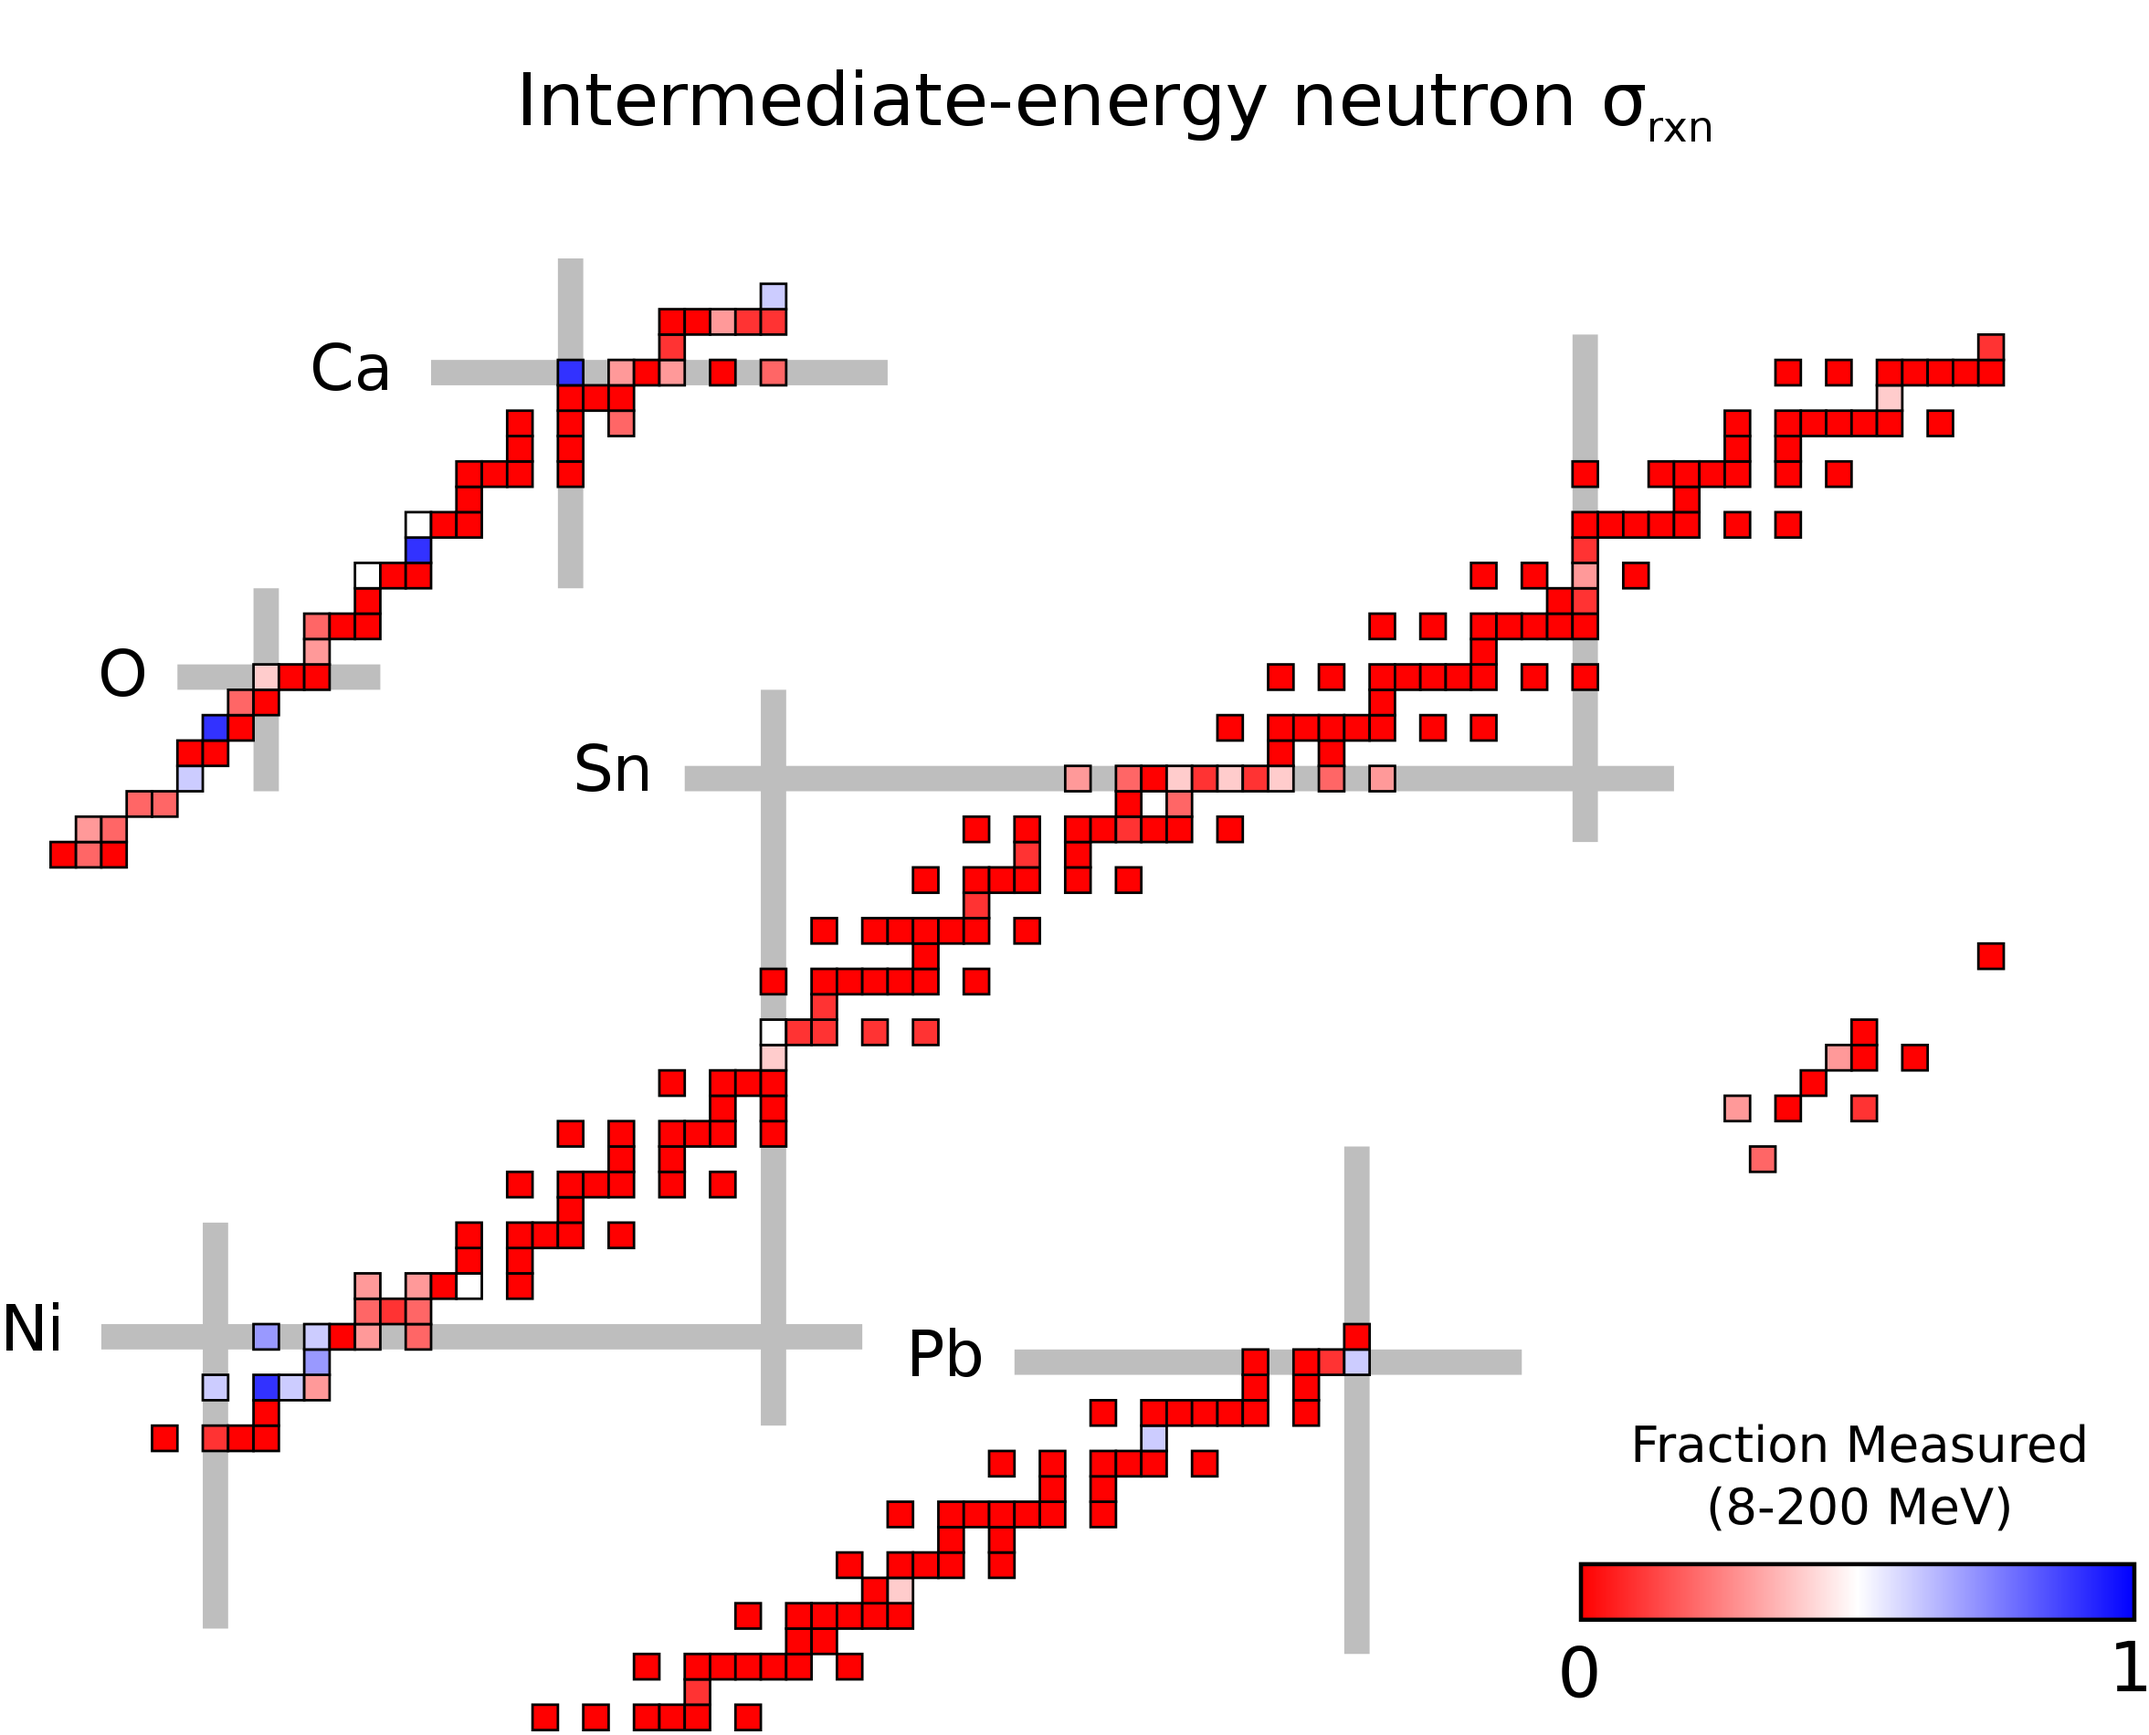
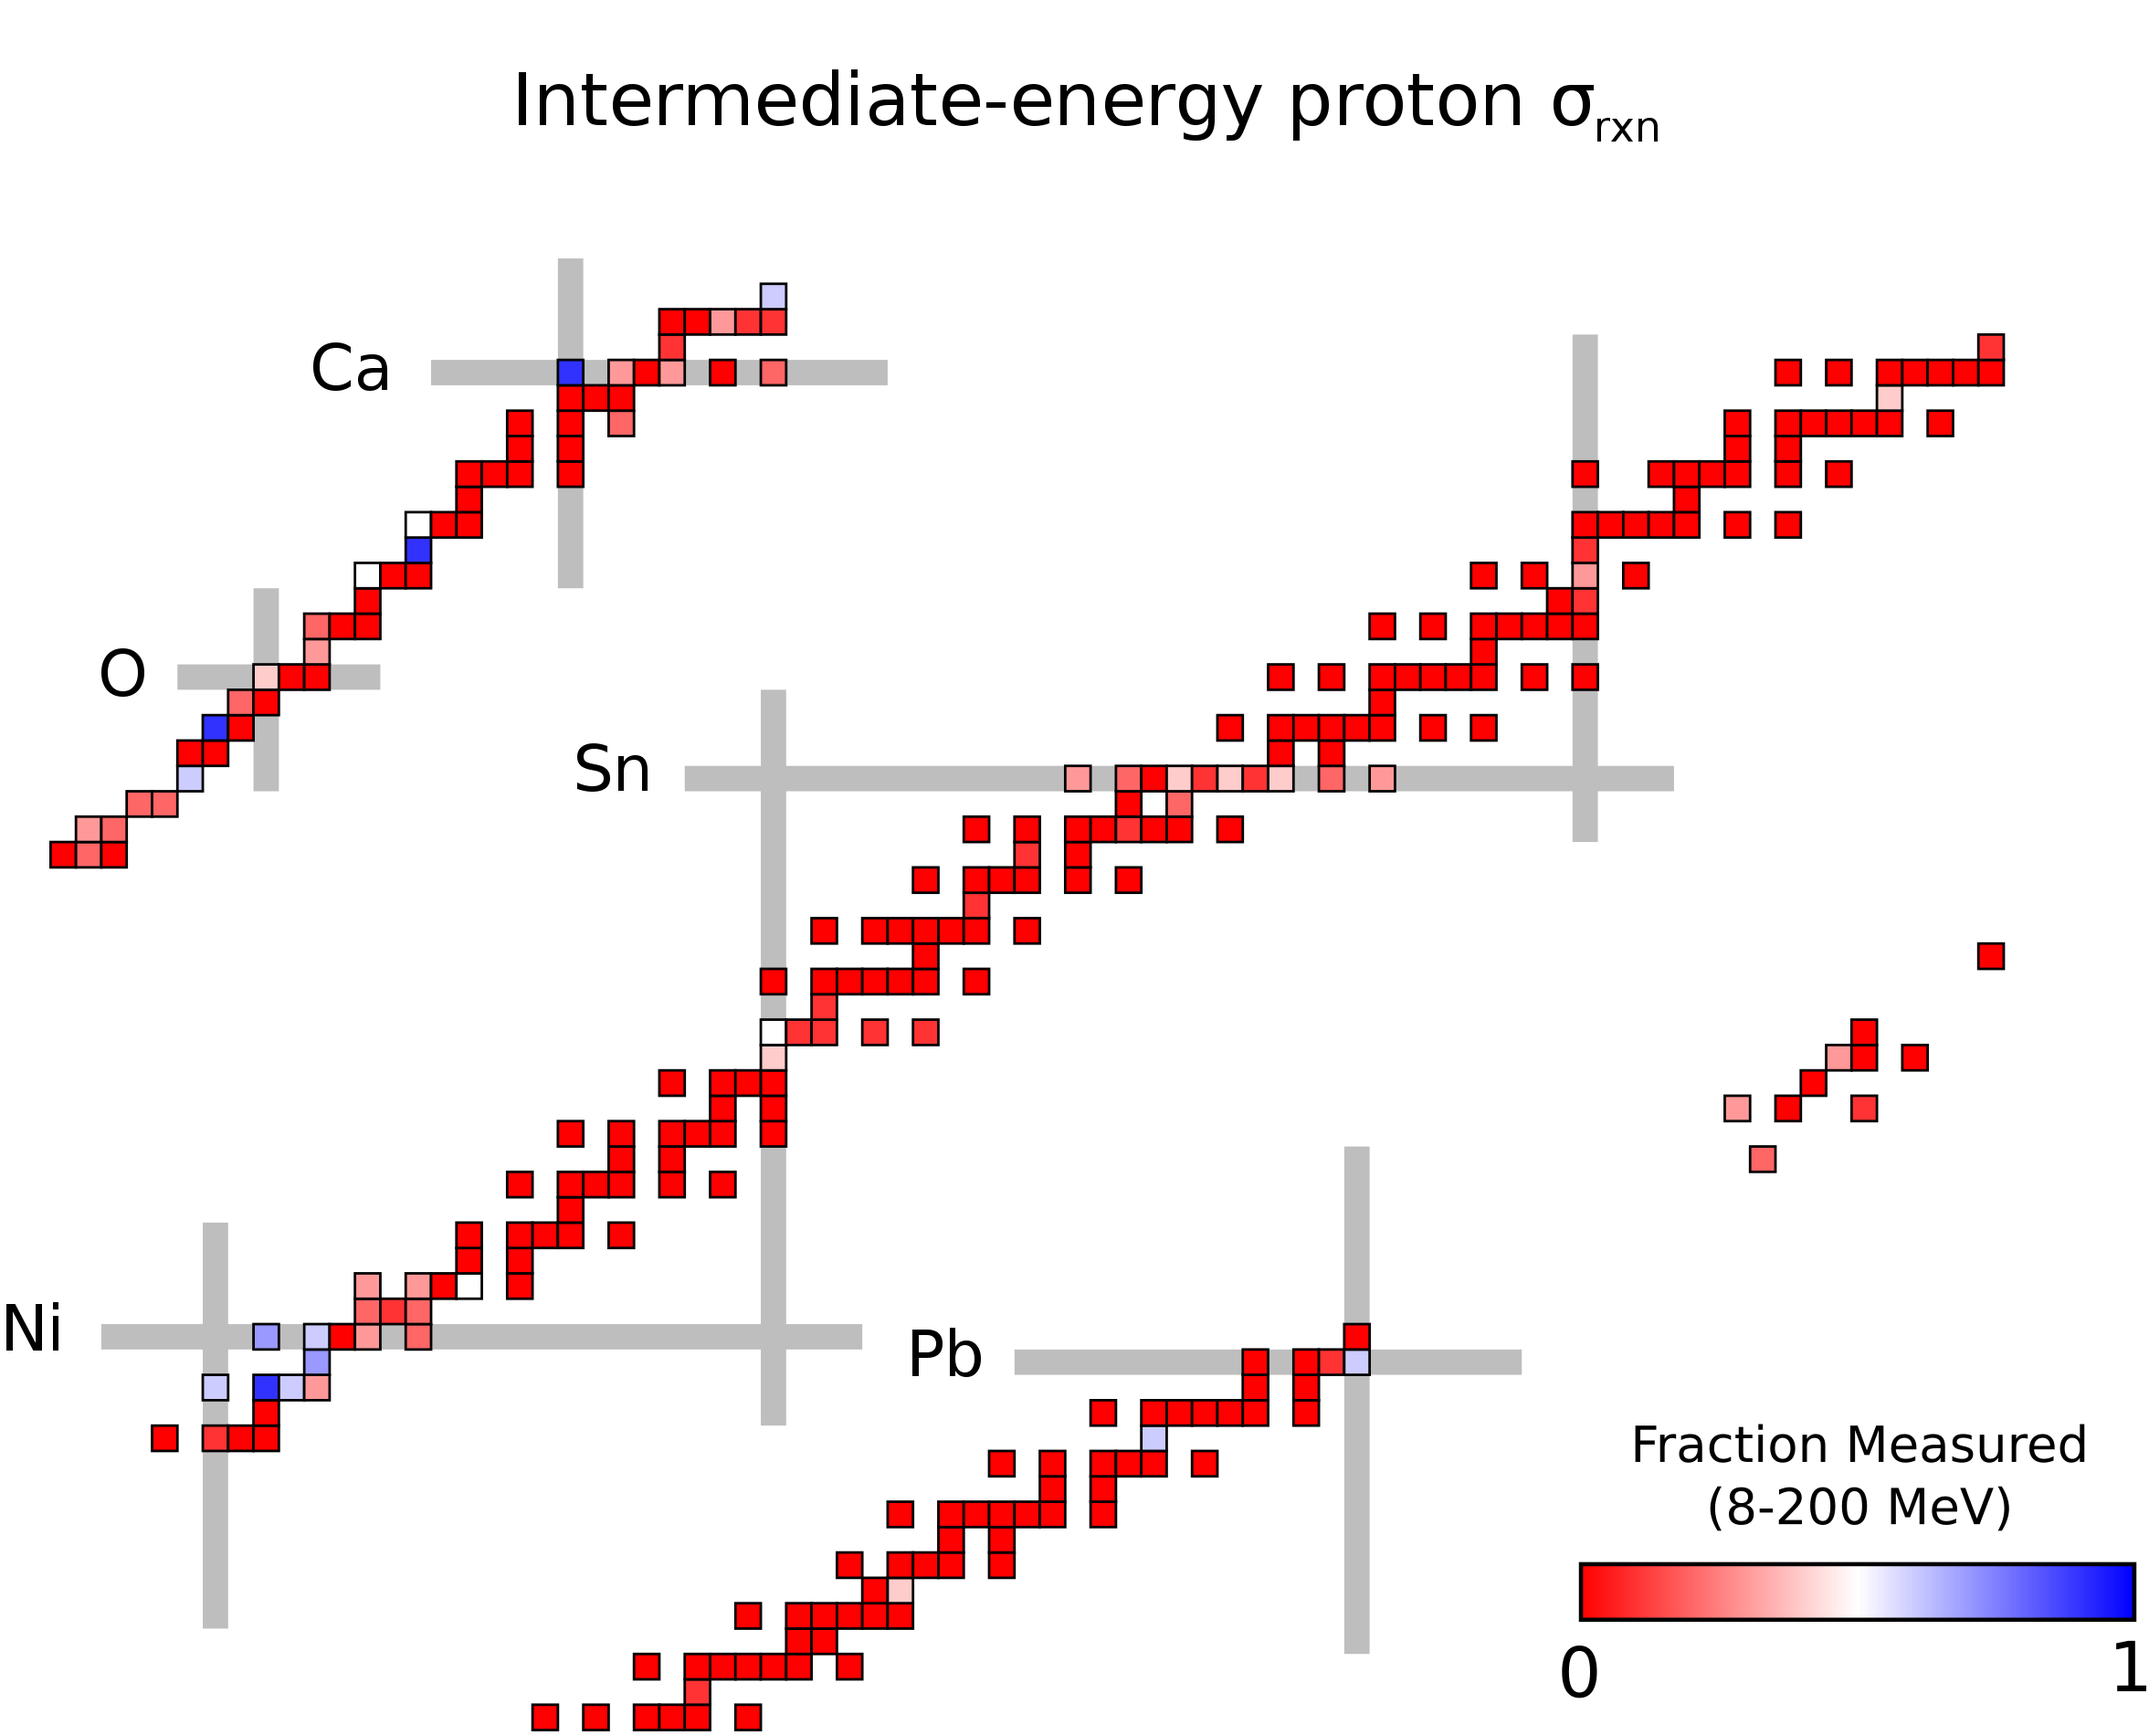
Fixed RCSChart, couple minor edits

Changed region(s): [[0.2482, 0.0311, 0.8066, 0.0932]]

diff --git a/text/introduction.tex b/text/introduction.tex
@@ -475,12 +475,13 @@ also provides information on the asymmetry-dependence of the real part of the nu
     \centering
     \includegraphics[width=0.9\textwidth]{figures/RCSChart.png}
     \caption[Landscape of existing proton \rxn\ data in 2019]
-    {Isotopes are color-coded by the amount of neutron \tot\ data available in the EXFOR nuclear
-        reaction database from 1-300 \mega\electronvolt, as accessed in 2018 and 2019. If data exists thoughout the 1-300 \mega\electronvolt\ range, the isotope
+    {Isotopes are color-coded by the amount of proton \rxn\ data available in the EXFOR nuclear
+        reaction database from 8-200 \mega\electronvolt, as accessed in 2018 and 2019. If data
+        exists thoughout the 8-200 \mega\electronvolt\ range, the isotope
         is colored blue. If no data exists, the isotope is colored red. For
         isotopes with partial coverage in this range, color varies by the degree
-        of coverage. Almost no nuclei have experimental coverage throughout this energy
-        range, a testament to the difficulty of proton \rxn\ measurements.}
+        of coverage. Coverage in this energy
+        range is quite sparse, a testament to the difficulty of proton \rxn\ measurements.}
     \label{RCSChart}
 \end{sidewaysfigure}
 

diff --git a/thesis.tex b/thesis.tex
@@ -1,5 +1,5 @@
-\documentclass[12pt,twoside]{book}
-%\documentclass[12pt,twoside,draft]{book}
+%\documentclass[12pt,twoside]{book}
+\documentclass[12pt,twoside,draft]{book}
 \usepackage{emptypage} % should remove blank page headers and footers
 \usepackage{titlesec}
 \usepackage{amsmath} % lots of math functions
@@ -54,6 +54,7 @@
 \usepackage{makecell}
 %\usepackage{etoolbox}
 \usepackage{subcaption}
+\usepackage{xcolor}
 
 % prevent hyphenation of uppercase words (acronyms)
 \uchyph=0
@@ -61,6 +62,13 @@
 \makeatletter
 \renewcommand*\l@figure{\@dottedtocline{1}{1.5em}{3em}}
 \let\l@table\l@figure
+\makeatother
+
+\makeatletter
+\newcommand\nocaption{
+    \renewcommand\p@subfigure{}
+    \renewcommand\thesubfigure{\thefigure\alph{subfigure}}
+}
 \makeatother
 
 %\makeatletter
@@ -129,6 +137,7 @@
 \newcommand{\caEight}{\ensuremath{^{48}}C\lowercase{a}}
 \newcommand{\caAughtEight}{\ensuremath{^{40,48}}C\lowercase{a}}
 
+\newcommand{\niSix}{\ensuremath{^{56}}N\lowercase{i}}
 \newcommand{\niEight}{\ensuremath{^{58}}N\lowercase{i}}
 \newcommand{\niSixty}{\ensuremath{^{60}}N\lowercase{i}}
 \newcommand{\niOne}{\ensuremath{^{61}}N\lowercase{i}}

diff --git a/text/parameters.tex b/text/parameters.tex
@@ -1,3 +1,4 @@
+\color{red}
 \begin{table}[htp]
     \centering
     \footnotesize
@@ -46,3 +47,4 @@
     \caption{Spin-orbit parameters}
     \makebox[\textwidth][c]{\input{parameters/SpinOrbitParametersTable.tex}}
 \end{table}
+\color{black}
